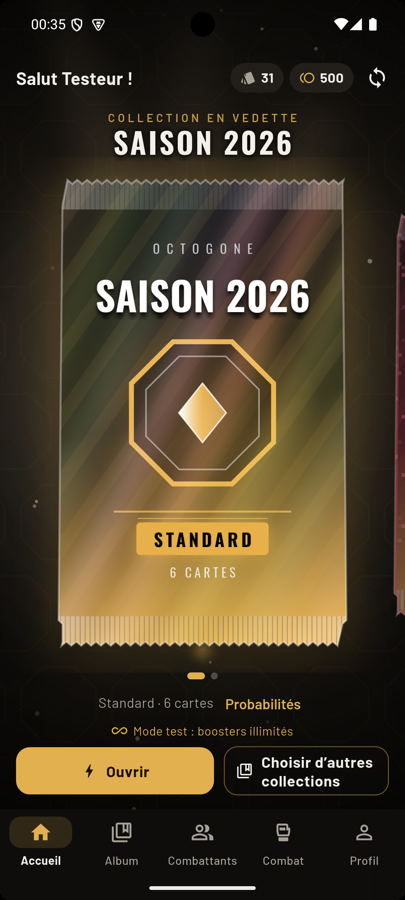
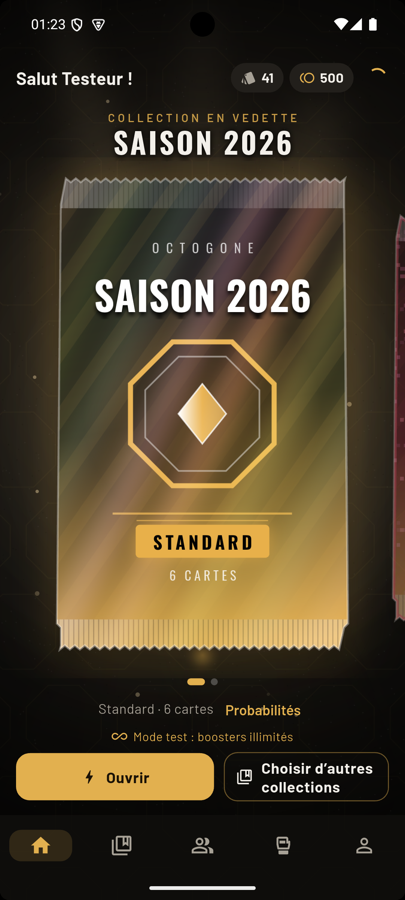
Écran d'entrée : octogone centré, flottement sans saut ; navigation en icônes
- Shader : mode 14, octogone holographique centré (entrée, emblème)
- Flottement des cartes et animations de fond en fréquences entières :
  la boucle raccorde sans saut (test de continuité)
- Reflet du titre en couche séparée : plus de saut de couleur
- Barre de navigation : icônes seules
- v0.3.2

diff --git a/app/lib/features/entry/entry_screen.dart b/app/lib/features/entry/entry_screen.dart
@@ -49,6 +49,22 @@ const _landscapeSlots = [
   (Offset(1.58, 0.95), -0.14, 0.47),
 ];
 
+/// Flottement d'une carte à l'instant [t] (0..1) de la boucle : somme de
+/// sinusoïdes de fréquences entières (2, 3, 5 tours par boucle), propre à
+/// chaque carte via [phase]. t = 0 et t = 1 donnent la même position : la
+/// boucle repart sans que les cartes sautent.
+Offset cardFloat(double t, double phase) {
+  double wave(int f, double ph) => 2 * math.pi * (f * t + ph);
+  return Offset(
+    math.cos(wave(2, phase)) * 3 + math.sin(wave(3, phase * 1.7)) * 1.5,
+    math.sin(wave(2, phase)) * 7 + math.sin(wave(5, phase * 2.3)) * 2,
+  );
+}
+
+/// Léger balancement (radians), raccordé de la même façon.
+double cardWobble(double t, double phase) =>
+    math.sin(2 * math.pi * (t + phase)) * 0.022 + math.sin(2 * math.pi * (3 * t + phase * 1.3)) * 0.008;
+
 /// Écran d'ouverture affiché à chaque lancement, avant l'accueil. Tout l'écran
 /// est le bouton d'entrée.
 class EntryScreen extends ConsumerStatefulWidget {
@@ -67,7 +83,10 @@ class _EntryScreenState extends ConsumerState<EntryScreen> with TickerProviderSt
     vsync: this,
     duration: const Duration(milliseconds: 2800),
   );
-  late final AnimationController _loop = AnimationController(vsync: this, duration: const Duration(seconds: 9));
+  // Boucle lente commune. Tous les mouvements qui en dérivent utilisent des
+  // fréquences entières : la fin d'un tour raccorde exactement le début
+  // (aucun saut quand la boucle repart).
+  late final AnimationController _loop = AnimationController(vsync: this, duration: const Duration(seconds: 24));
   late final AnimationController _spin = AnimationController(vsync: this, duration: const Duration(seconds: 90));
   late final AnimationController _exit = AnimationController(vsync: this, duration: const Duration(milliseconds: 750));
   bool _reduce = false;
@@ -162,7 +181,7 @@ class _EntryScreenState extends ConsumerState<EntryScreen> with TickerProviderSt
                     ];
                     final holo = RepaintBoundary(
                       child: HoloLayer(
-                        spec: const EffectSpec(mode: 9, blend: BlendMode.screen, animated: true, intensity: 0.85),
+                        spec: const EffectSpec(mode: 14, blend: BlendMode.screen, animated: true, intensity: 0.85),
                         tilt: tilt,
                         animate: !_reduce,
                       ),
@@ -234,8 +253,8 @@ class _EntryScreenState extends ConsumerState<EntryScreen> with TickerProviderSt
     final (pos, rot, phase) = slot;
     final appear = _iv(0.42 + i * 0.05, 0.70 + i * 0.05, Curves.easeOutBack);
     final opacity = (_iv(0.42 + i * 0.05, 0.62 + i * 0.05) * (1 - e)).clamp(0.0, 1.0);
-    final v = (_loop.value + phase) * 2 * math.pi;
-    final float = _reduce ? Offset.zero : Offset(math.cos(v) * 3, math.sin(v) * 7);
+    final float = _reduce ? Offset.zero : cardFloat(_loop.value, phase);
+    final wobble = _reduce ? 0.0 : cardWobble(_loop.value, phase);
     // Glisse depuis le centre à l'apparition, s'écarte à la sortie
     final spread = (0.55 + 0.45 * appear) * (1 + e * 1.6);
     final c = center + pos * r * spread + float + tilt * 10 * (1 + i % 2 * 0.6);
@@ -245,7 +264,7 @@ class _EntryScreenState extends ConsumerState<EntryScreen> with TickerProviderSt
       ..setEntry(3, 2, 0.0012)
       ..rotateX(-tilt.dy * max)
       ..rotateY(tilt.dx * max)
-      ..rotateZ(rot + (_reduce ? 0 : math.sin(v * 0.5) * 0.025))
+      ..rotateZ(rot + wobble)
       ..scaleByDouble(0.85 + 0.15 * appear, 0.85 + 0.15 * appear, 1, 1);
     return Positioned(
       left: c.dx - w / 2,
@@ -296,7 +315,7 @@ class _EntryScreenState extends ConsumerState<EntryScreen> with TickerProviderSt
                 children: [
                   // Halo doré
                   Opacity(
-                    opacity: fill * (0.7 + 0.3 * math.sin(_loop.value * 2 * math.pi * 2)),
+                    opacity: fill * (0.7 + 0.3 * math.sin(_loop.value * 2 * math.pi * 6)),
                     child: Transform.scale(
                       scale: 1.45,
                       child: DecoratedBox(
@@ -348,7 +367,8 @@ class _EntryScreenState extends ConsumerState<EntryScreen> with TickerProviderSt
 
   Widget _title(Offset center, double r, double e) {
     final letters = _iv(0.42, 0.80, Curves.linear);
-    final sheen = _reduce ? -1.0 : ((_loop.value * 2) % 1.0) * 1.8 - 0.4;
+    // Reflet : 5 passages par boucle, hors champ au moment où il repart
+    final sheen = _reduce ? -1.0 : ((_loop.value * 5) % 1.0) * 1.8 - 0.4;
     final size = r * 0.36;
     return Positioned(
       left: 0,
@@ -392,7 +412,7 @@ class _EntryScreenState extends ConsumerState<EntryScreen> with TickerProviderSt
 
   Widget _cta(AppLocalizations l, BoxConstraints c, double e) {
     final appear = _iv(0.82, 1.0);
-    final pulse = _reduce ? 1.0 : 0.6 + 0.4 * (0.5 + 0.5 * math.sin(_loop.value * 2 * math.pi * 3));
+    final pulse = _reduce ? 1.0 : 0.6 + 0.4 * (0.5 + 0.5 * math.sin(_loop.value * 2 * math.pi * 8));
     return Positioned(
       left: 24,
       right: 24,
@@ -470,7 +490,7 @@ class _MetalTitle extends StatelessWidget {
   /// 0..1 : avancée de l'apparition lettre par lettre.
   final double progress;
 
-  /// Position du reflet (-0.4..1.4, hors champ en dehors de 0..1).
+  /// Position du reflet (-0.4..1.4 ; hors champ en dehors de -0.15..1.15).
   final double sheen;
 
   @override
@@ -507,19 +527,38 @@ class _MetalTitle extends StatelessWidget {
           ),
       ],
     );
-    return ShaderMask(
+    // Métal : dégradé doré fixe, puis bande de lumière par-dessus. Quand la
+    // bande est hors champ, la couche disparaît : aucun saut de couleur.
+    final metal = ShaderMask(
       blendMode: BlendMode.srcIn,
-      shaderCallback: (rect) {
-        final p = sheen;
-        List<double> clampStops(List<double> s) => [for (final x in s) x.clamp(0.0, 1.0)];
-        return LinearGradient(
-          begin: const Alignment(-1, -0.4),
-          end: const Alignment(1, 0.4),
-          colors: const [AppColors.goldDeep, AppColors.gold, Color(0xFFFFF4D6), AppColors.gold, Color(0xFFB7862F)],
-          stops: clampStops([0, p - 0.12, p, p + 0.12, 1]),
-        ).createShader(rect);
-      },
+      shaderCallback: (rect) => const LinearGradient(
+        begin: Alignment(-1, -0.4),
+        end: Alignment(1, 0.4),
+        colors: [AppColors.goldDeep, AppColors.gold, Color(0xFFF3D38A), AppColors.gold, Color(0xFFB7862F)],
+        stops: [0, 0.3, 0.5, 0.7, 1],
+      ).createShader(rect),
       child: letters,
+    );
+    final p = sheen;
+    if (p < -0.15 || p > 1.15) return metal;
+    return Stack(
+      children: [
+        metal,
+        ShaderMask(
+          blendMode: BlendMode.srcIn,
+          shaderCallback: (rect) => LinearGradient(
+            begin: const Alignment(-1, -0.4),
+            end: const Alignment(1, 0.4),
+            colors: [
+              Colors.white.withValues(alpha: 0),
+              const Color(0xFFFFF6DC).withValues(alpha: 0.9),
+              Colors.white.withValues(alpha: 0),
+            ],
+            stops: [(p - 0.12).clamp(0.0, 1.0), p.clamp(0.0, 1.0), (p + 0.12).clamp(0.0, 1.0)],
+          ).createShader(rect),
+          child: letters,
+        ),
+      ],
     );
   }
 }

diff --git a/app/lib/widgets/arena_background.dart b/app/lib/widgets/arena_background.dart
@@ -27,7 +27,8 @@ class ArenaBackground extends StatefulWidget {
 }
 
 class _ArenaBackgroundState extends State<ArenaBackground> with SingleTickerProviderStateMixin {
-  // Une boucle lente commune : toutes les positions en dérivent (sinus).
+  // Une boucle lente commune : toutes les positions en dérivent, avec des
+  // fréquences entières pour raccorder sans saut d'un tour à l'autre.
   late final AnimationController _t = AnimationController(vsync: this, duration: const Duration(seconds: 40));
   bool _reduce = false;
 
@@ -62,7 +63,7 @@ class _ArenaBackgroundState extends State<ArenaBackground> with SingleTickerProv
           // Motif d'octogone qui glisse très lentement
           _Drift(
             t: _t,
-            builder: (v) => Matrix4.translationValues(math.sin(v * 2 * math.pi) * 14, v * 60 - 30, 0),
+            builder: (v) => Matrix4.translationValues(math.sin(v * 2 * math.pi) * 14, math.cos(v * 2 * math.pi) * 22, 0),
             child: Opacity(
               opacity: 0.35 + 0.35 * k,
               child: const RepaintBoundary(child: _OctagonPattern()),
@@ -75,8 +76,8 @@ class _ArenaBackgroundState extends State<ArenaBackground> with SingleTickerProv
               builder: (v) {
                 final a = (v * s.speed + s.phase) * 2 * math.pi;
                 return Matrix4.identity()
-                  ..translateByDouble(math.sin(a) * s.dx, math.cos(a * 0.7) * s.dy, 0, 1)
-                  ..scaleByDouble(1 + 0.08 * math.sin(a * 1.3), 1 + 0.08 * math.sin(a * 1.3), 1, 1);
+                  ..translateByDouble(math.sin(a) * s.dx, math.cos(a * 2) * s.dy, 0, 1)
+                  ..scaleByDouble(1 + 0.08 * math.sin(a + 1.3), 1 + 0.08 * math.sin(a + 1.3), 1, 1);
               },
               child: Align(
                 alignment: s.align,
@@ -293,7 +294,8 @@ class _DustPainter extends CustomPainter {
       final (x0, y0, radius, phase, speed) = _seeds[i];
       final v = (t.value * speed + phase) % 1.0;
       final x = (x0 + math.sin((v + phase) * 2 * math.pi) * 0.03) * size.width;
-      final y = (y0 - v * 0.35) % 1.0 * size.height;
+      // Vitesse entière : la poussière remonte sans saut quand la boucle repart
+      final y = (y0 - t.value * speed) % 1.0 * size.height;
       final twinkle = 0.5 + 0.5 * math.sin((v * 6 + phase) * 2 * math.pi);
       paint.color = Color.lerp(color, Colors.white, 0.5)!.withValues(alpha: 0.1 + 0.35 * twinkle * strength);
       canvas.drawCircle(Offset(x, y), radius, paint);

diff --git a/app/lib/widgets/rarity_backdrop.dart b/app/lib/widgets/rarity_backdrop.dart
@@ -108,8 +108,14 @@ class _RarityBackdropState extends State<RarityBackdrop> with SingleTickerProvid
         if (rank >= 2)
           _Anim(
             t: _t,
-            builder: (v, child) =>
-                FractionalTranslation(translation: Offset(((v * 4) % 1.0) * 3 - 1.5, 0), child: child),
+            builder: (v, child) {
+            // Le reflet s'efface aux extrémités : pas de saut quand il repart
+            final p = (v * 4) % 1.0;
+            return Opacity(
+              opacity: math.sin(p * math.pi),
+              child: FractionalTranslation(translation: Offset(p * 4 - 2, 0), child: child),
+            );
+          },
             child: RepaintBoundary(child: _Sweep(color: c)),
           ),
         // Épique et plus : rayons qui tournent lentement
@@ -135,7 +141,7 @@ class _RarityBackdropState extends State<RarityBackdrop> with SingleTickerProvid
             builder: (v, child) {
               final p = (v * 6) % 1.0;
               return Opacity(
-                opacity: (1 - p) * (rank >= 5 ? 0.6 : 0.4),
+                opacity: math.sin(p * math.pi) * (1 - p * 0.5) * (rank >= 5 ? 0.75 : 0.5),
                 child: Transform.scale(scale: 0.7 + p * 0.7, child: child),
               );
             },

diff --git a/app/test/screens_test.dart b/app/test/screens_test.dart
@@ -515,4 +515,20 @@ void main() {
     }
     await tester.pumpWidget(const SizedBox());
   });
+
+  test('Écran d’entrée : le flottement des cartes raccorde sans saut quand la boucle repart', () {
+    for (final phase in [0.0, 0.18, 0.35, 0.47, 0.62, 0.81]) {
+      expect((cardFloat(0, phase) - cardFloat(1, phase)).distance, lessThan(1e-9));
+      expect((cardWobble(0, phase) - cardWobble(1, phase)).abs(), lessThan(1e-9));
+      // Mouvement continu : pas de grand écart entre deux images (60 i/s, boucle de 24 s)
+      for (var k = 0; k < 1440; k++) {
+        final a = k / 1440, b = (k + 1) / 1440;
+        expect((cardFloat(a, phase) - cardFloat(b, phase)).distance, lessThan(0.2));
+      }
+    }
+  });
+
+  test('Barre de navigation : icônes seules', () {
+    expect(buildTheme().navigationBarTheme.labelBehavior, NavigationDestinationLabelBehavior.alwaysHide);
+  });
 }

diff --git a/app/lib/core/theme.dart b/app/lib/core/theme.dart
@@ -180,8 +180,9 @@ ThemeData buildTheme() {
       surfaceTintColor: Colors.transparent,
       indicatorColor: AppColors.gold.withValues(alpha: 0.16),
       indicatorShape: RoundedRectangleBorder(borderRadius: BorderRadius.circular(12)),
-      height: 68,
-      labelBehavior: NavigationDestinationLabelBehavior.alwaysShow,
+      // Icônes seules (le nom reste lu par l'accessibilité et en info-bulle)
+      height: 62,
+      labelBehavior: NavigationDestinationLabelBehavior.alwaysHide,
       iconTheme: WidgetStateProperty.resolveWith(
         (s) => IconThemeData(color: s.contains(WidgetState.selected) ? AppColors.gold : AppColors.textMuted, size: 24),
       ),

diff --git a/app/lib/widgets/octagon_emblem.dart b/app/lib/widgets/octagon_emblem.dart
@@ -27,7 +27,7 @@ class OctagonEmblem extends StatelessWidget {
             ),
             RepaintBoundary(
               child: HoloLayer(
-                spec: const EffectSpec(mode: 9, blend: BlendMode.screen, animated: true, intensity: 0.8),
+                spec: const EffectSpec(mode: 14, blend: BlendMode.screen, animated: true, intensity: 0.8),
                 tilt: Offset.zero,
                 animate: animate && !(MediaQuery.maybeDisableAnimationsOf(context) ?? false),
               ),

diff --git a/app/lib/features/settings/settings_screen.dart b/app/lib/features/settings/settings_screen.dart
@@ -7,7 +7,7 @@ import '../../data/repositories/content_providers.dart';
 import '../auth/auth_providers.dart';
 
 /// Version affichée (à garder alignée sur app/pubspec.yaml).
-const appVersion = '0.3.1';
+const appVersion = '0.3.2';
 
 class SettingsScreen extends ConsumerWidget {
   const SettingsScreen({super.key});

diff --git a/CHANGELOG.md b/CHANGELOG.md
@@ -3,7 +3,13 @@
 Chaque version publiée a sa release GitHub avec les APK Android (`scripts/release_android.sh`).
 Le texte d'une section sert de notes à la release correspondante.
 
-## 0.3.1
+## 0.3.2
+
+Écran d'entrée et navigation
+- L'octogone multicolore est centré dans le grand octogone et tourne avec lui.
+- Les cartes flottantes ne « sautent » plus quand l'animation repart : mouvements raccordés sans à-coup (fumée, poussière et motif du fond aussi).
+- Barre de navigation en icônes seules.
+
 
 Direction artistique
 - Nouvel écran d'entrée à chaque lancement : l'octogone noir (motif de l'Octogone Noir) se trace puis tourne lentement, « OCTOGONE » apparaît lettre par lettre avec un reflet métallique, six cartes de prestige flottent autour (Ceinture d'Or, SuperFractor, Octogone Noir…) et s'inclinent avec le téléphone (ou la souris). Tout l'écran sert à entrer.
